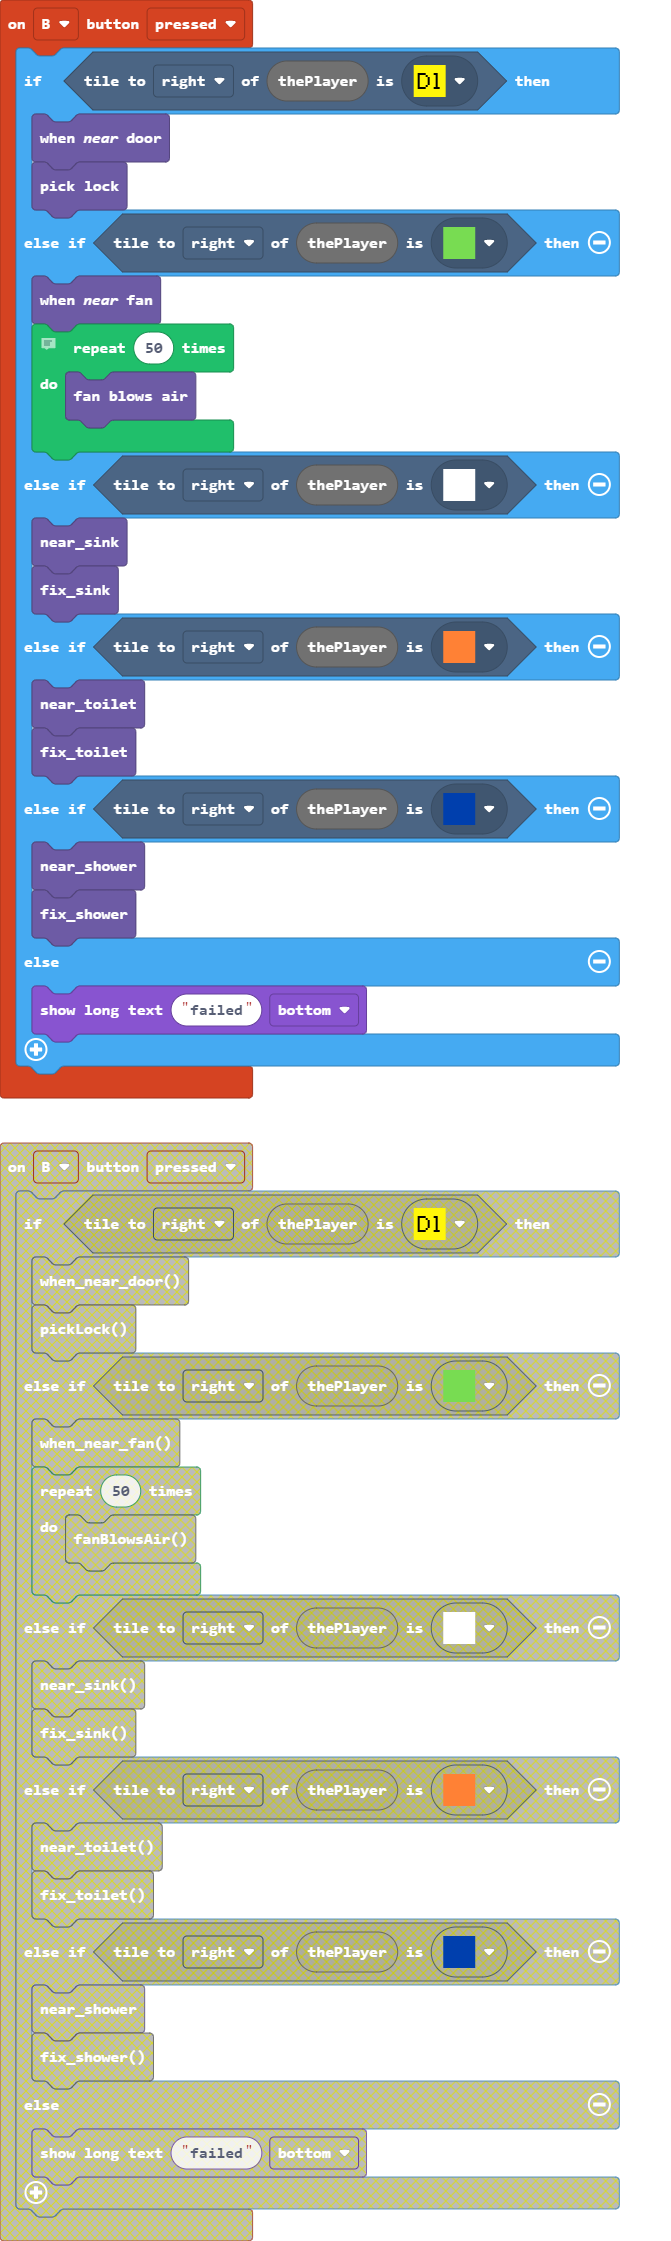
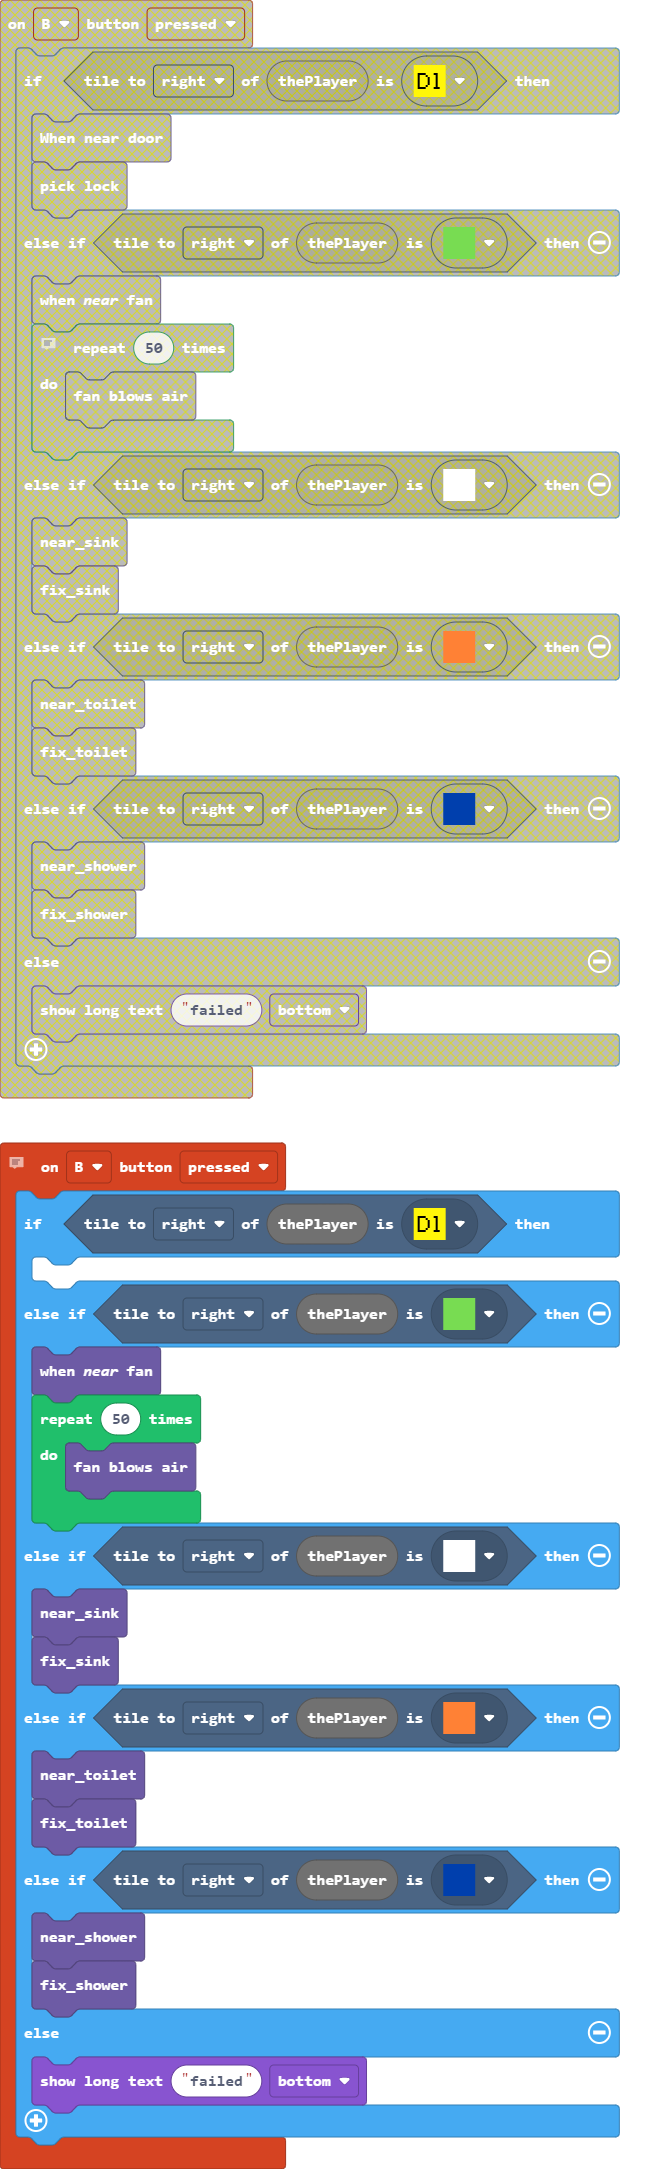
need to fix event blocks

diff --git a/main.ts b/main.ts
@@ -4,7 +4,6 @@ controller.B.onEvent(ControllerButtonEvent.Pressed, function () {
         hoc.pickLock()
     } else if (thePlayer.tileKindAt(TileDirection.Right, myTiles.tile12)) {
         hoc.when_near_fan()
-        // fanBlowsAir()
         for (let index = 0; index < 50; index++) {
             hoc.fanBlowsAir()
         }

diff --git a/name.ts b/name.ts
@@ -1,6 +1,7 @@
 namespace hoc {
     //%block
-    export function when_near_door () {
+    //% block="When near door"
+    export function when_near_door() { 
         if (thePlayer.tileKindAt(TileDirection.Right, myTiles.tile5)) {
             nearDoor = true
         }
